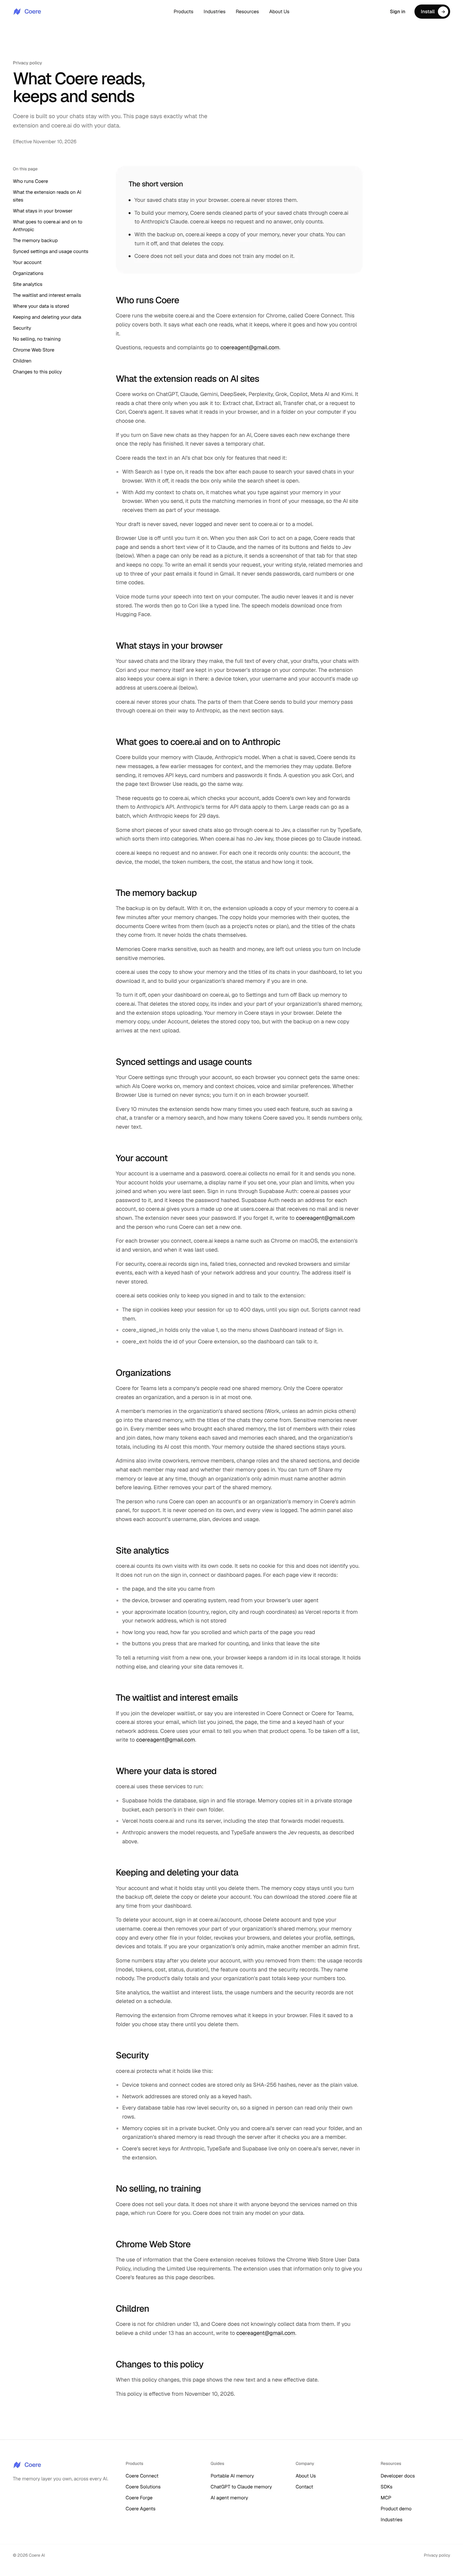
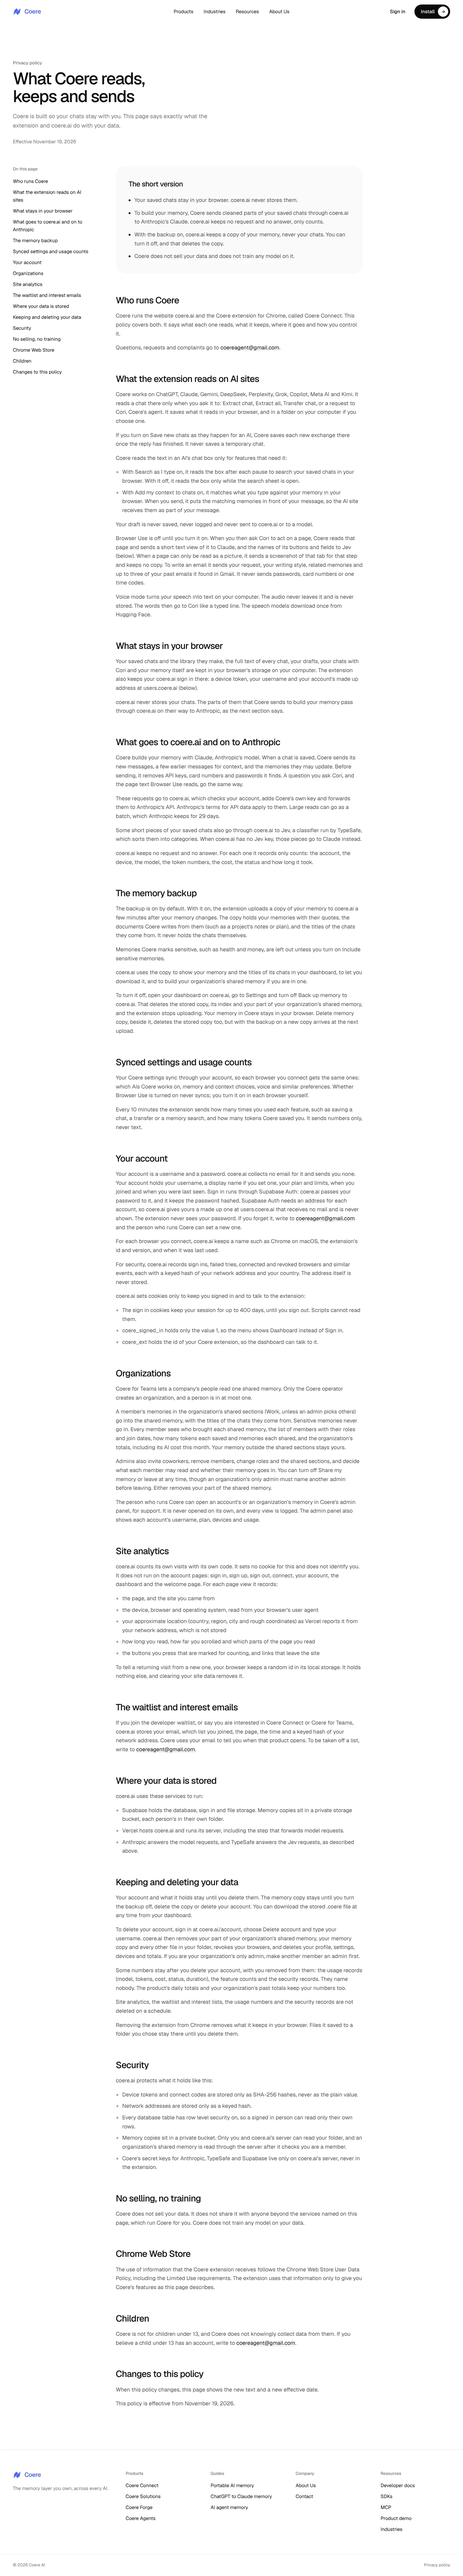
Make the privacy policy match the Console and the tracker
The Console's button is Delete memory copy, beside the backup switch. The tracker skips every account page, which the analytics section now names. The sitemap takes the policy's effective date, so the two cannot drift; it said November 4 while the text took effect November 10. The effective date moves with the text, and the two privacy pictures are retaken.

Claude-Session: https://claude.ai/code/session_01Ur6uqNCXa3ecJ23BnM9D9o

diff --git a/src/site/content/privacy.ts b/src/site/content/privacy.ts
@@ -6,8 +6,8 @@
  */
 
 /** The day this text took effect, as a date and as the page says it. */
-export const PRIVACY_EFFECTIVE = "2026-11-10";
-export const PRIVACY_EFFECTIVE_LABEL = "November 10, 2026";
+export const PRIVACY_EFFECTIVE = "2026-11-19";
+export const PRIVACY_EFFECTIVE_LABEL = "November 19, 2026";
 
 /** One part of the policy: a heading, its paragraphs, and an optional list after them. */
 export type PrivacySection = { id: string; title: string; paragraphs: string[]; list?: string[]; after?: string[] };
@@ -74,7 +74,7 @@ export const privacySections: PrivacySection[] = [
       "The backup is on by default. With it on, the extension uploads a copy of your memory to coere.ai a few minutes after your memory changes. The copy holds your memories with their quotes, the documents Coere writes from them (such as a project's notes or plan), and the titles of the chats they come from. It never holds the chats themselves.",
       "Memories Coere marks sensitive, such as health and money, are left out unless you turn on Include sensitive memories.",
       "coere.ai uses the copy to show your memory and the titles of its chats in your dashboard, to let you download it, and to build your organization's shared memory if you are in one.",
-      "To turn it off, open your dashboard on coere.ai, go to Settings and turn off Back up memory to coere.ai. That deletes the stored copy, its index and your part of your organization's shared memory, and the extension stops uploading. Your memory in Coere stays in your browser. Delete the memory copy, under Account, deletes the stored copy too, but with the backup on a new copy arrives at the next upload.",
+      "To turn it off, open your dashboard on coere.ai, go to Settings and turn off Back up memory to coere.ai. That deletes the stored copy, its index and your part of your organization's shared memory, and the extension stops uploading. Your memory in Coere stays in your browser. Delete memory copy, beside it, deletes the stored copy too, but with the backup on a new copy arrives at the next upload.",
     ],
   },
   {
@@ -114,7 +114,7 @@ export const privacySections: PrivacySection[] = [
     id: "analytics",
     title: "Site analytics",
     paragraphs: [
-      "coere.ai counts its own visits with its own code. It sets no cookie for this and does not identify you. It does not run on the sign in, connect or dashboard pages. For each page view it records:",
+      "coere.ai counts its own visits with its own code. It sets no cookie for this and does not identify you. It does not run on the account pages: sign in, sign up, sign out, connect, your account, the dashboard and the welcome page. For each page view it records:",
     ],
     list: [
       "the page, and the site you came from",

diff --git a/src/site/content/privacy.test.ts b/src/site/content/privacy.test.ts
@@ -1,0 +1,41 @@
+import assert from "node:assert/strict";
+import { test } from "node:test";
+
+import { isTrackedPath } from "@/lib/analytics/tracked-paths";
+
+import { PRIVACY_EFFECTIVE, PRIVACY_EFFECTIVE_LABEL, privacySections } from "./privacy";
+
+const text = (id: string) => {
+  const s = privacySections.find((x) => x.id === id);
+  assert.ok(s, id);
+  return [...s.paragraphs, ...(s.list ?? []), ...(s.after ?? [])].join(" ");
+};
+
+test("the policy names the backup controls as the Console's Account card labels them", () => {
+  // apps/extension/src/console/settings/account-copy.ts in coere-v2.
+  for (const label of ["Back up memory to coere.ai", "Include sensitive memories", "Delete memory copy"]) {
+    assert.ok(text("backup").includes(label), label);
+  }
+});
+
+test("the analytics section names every account page the tracker skips", () => {
+  const pages: Array<[string, string]> = [
+    ["/sign-in", "sign in"],
+    ["/sign-up", "sign up"],
+    ["/sign-out", "sign out"],
+    ["/connect", "connect"],
+    ["/account", "your account"],
+    ["/dashboard", "dashboard"],
+    ["/welcome", "welcome"],
+  ];
+  const said = text("analytics");
+  for (const [path, name] of pages) {
+    assert.equal(isTrackedPath(path), false, path);
+    assert.ok(said.includes(name), name);
+  }
+});
+
+test("the effective date reads as the date it holds", () => {
+  const shown = new Date(`${PRIVACY_EFFECTIVE}T12:00:00Z`).toLocaleDateString("en-US", { month: "long", day: "numeric", year: "numeric", timeZone: "UTC" });
+  assert.equal(PRIVACY_EFFECTIVE_LABEL, shown);
+});

diff --git a/src/app/sitemap.ts b/src/app/sitemap.ts
@@ -3,6 +3,7 @@ import { siteConfig } from "@/lib/site";
 import { docPages } from "@/site/content/docs";
 import { guides } from "@/site/content/guides";
 import { industries } from "@/site/content/industries";
+import { PRIVACY_EFFECTIVE } from "@/site/content/privacy";
 import { products } from "@/site/content/products";
 
 /**
@@ -13,7 +14,8 @@ import { products } from "@/site/content/products";
 const UPDATED = {
   site: "2026-11-03",
   docs: "2026-10-29",
-  privacy: "2026-11-04",
+  // The policy's own effective date, so the two cannot drift apart.
+  privacy: PRIVACY_EFFECTIVE,
 } as const;
 
 /**

diff --git a/src/app/sitemap.test.ts b/src/app/sitemap.test.ts
@@ -1,0 +1,12 @@
+import assert from "node:assert/strict";
+import { test } from "node:test";
+
+import { PRIVACY_EFFECTIVE } from "@/site/content/privacy";
+
+import sitemap from "./sitemap";
+
+test("the privacy policy's last change is the date the policy says it took effect", () => {
+  const entry = sitemap().find((e) => e.url.endsWith("/privacy"));
+  assert.ok(entry);
+  assert.equal(entry.lastModified, PRIVACY_EFFECTIVE);
+});
